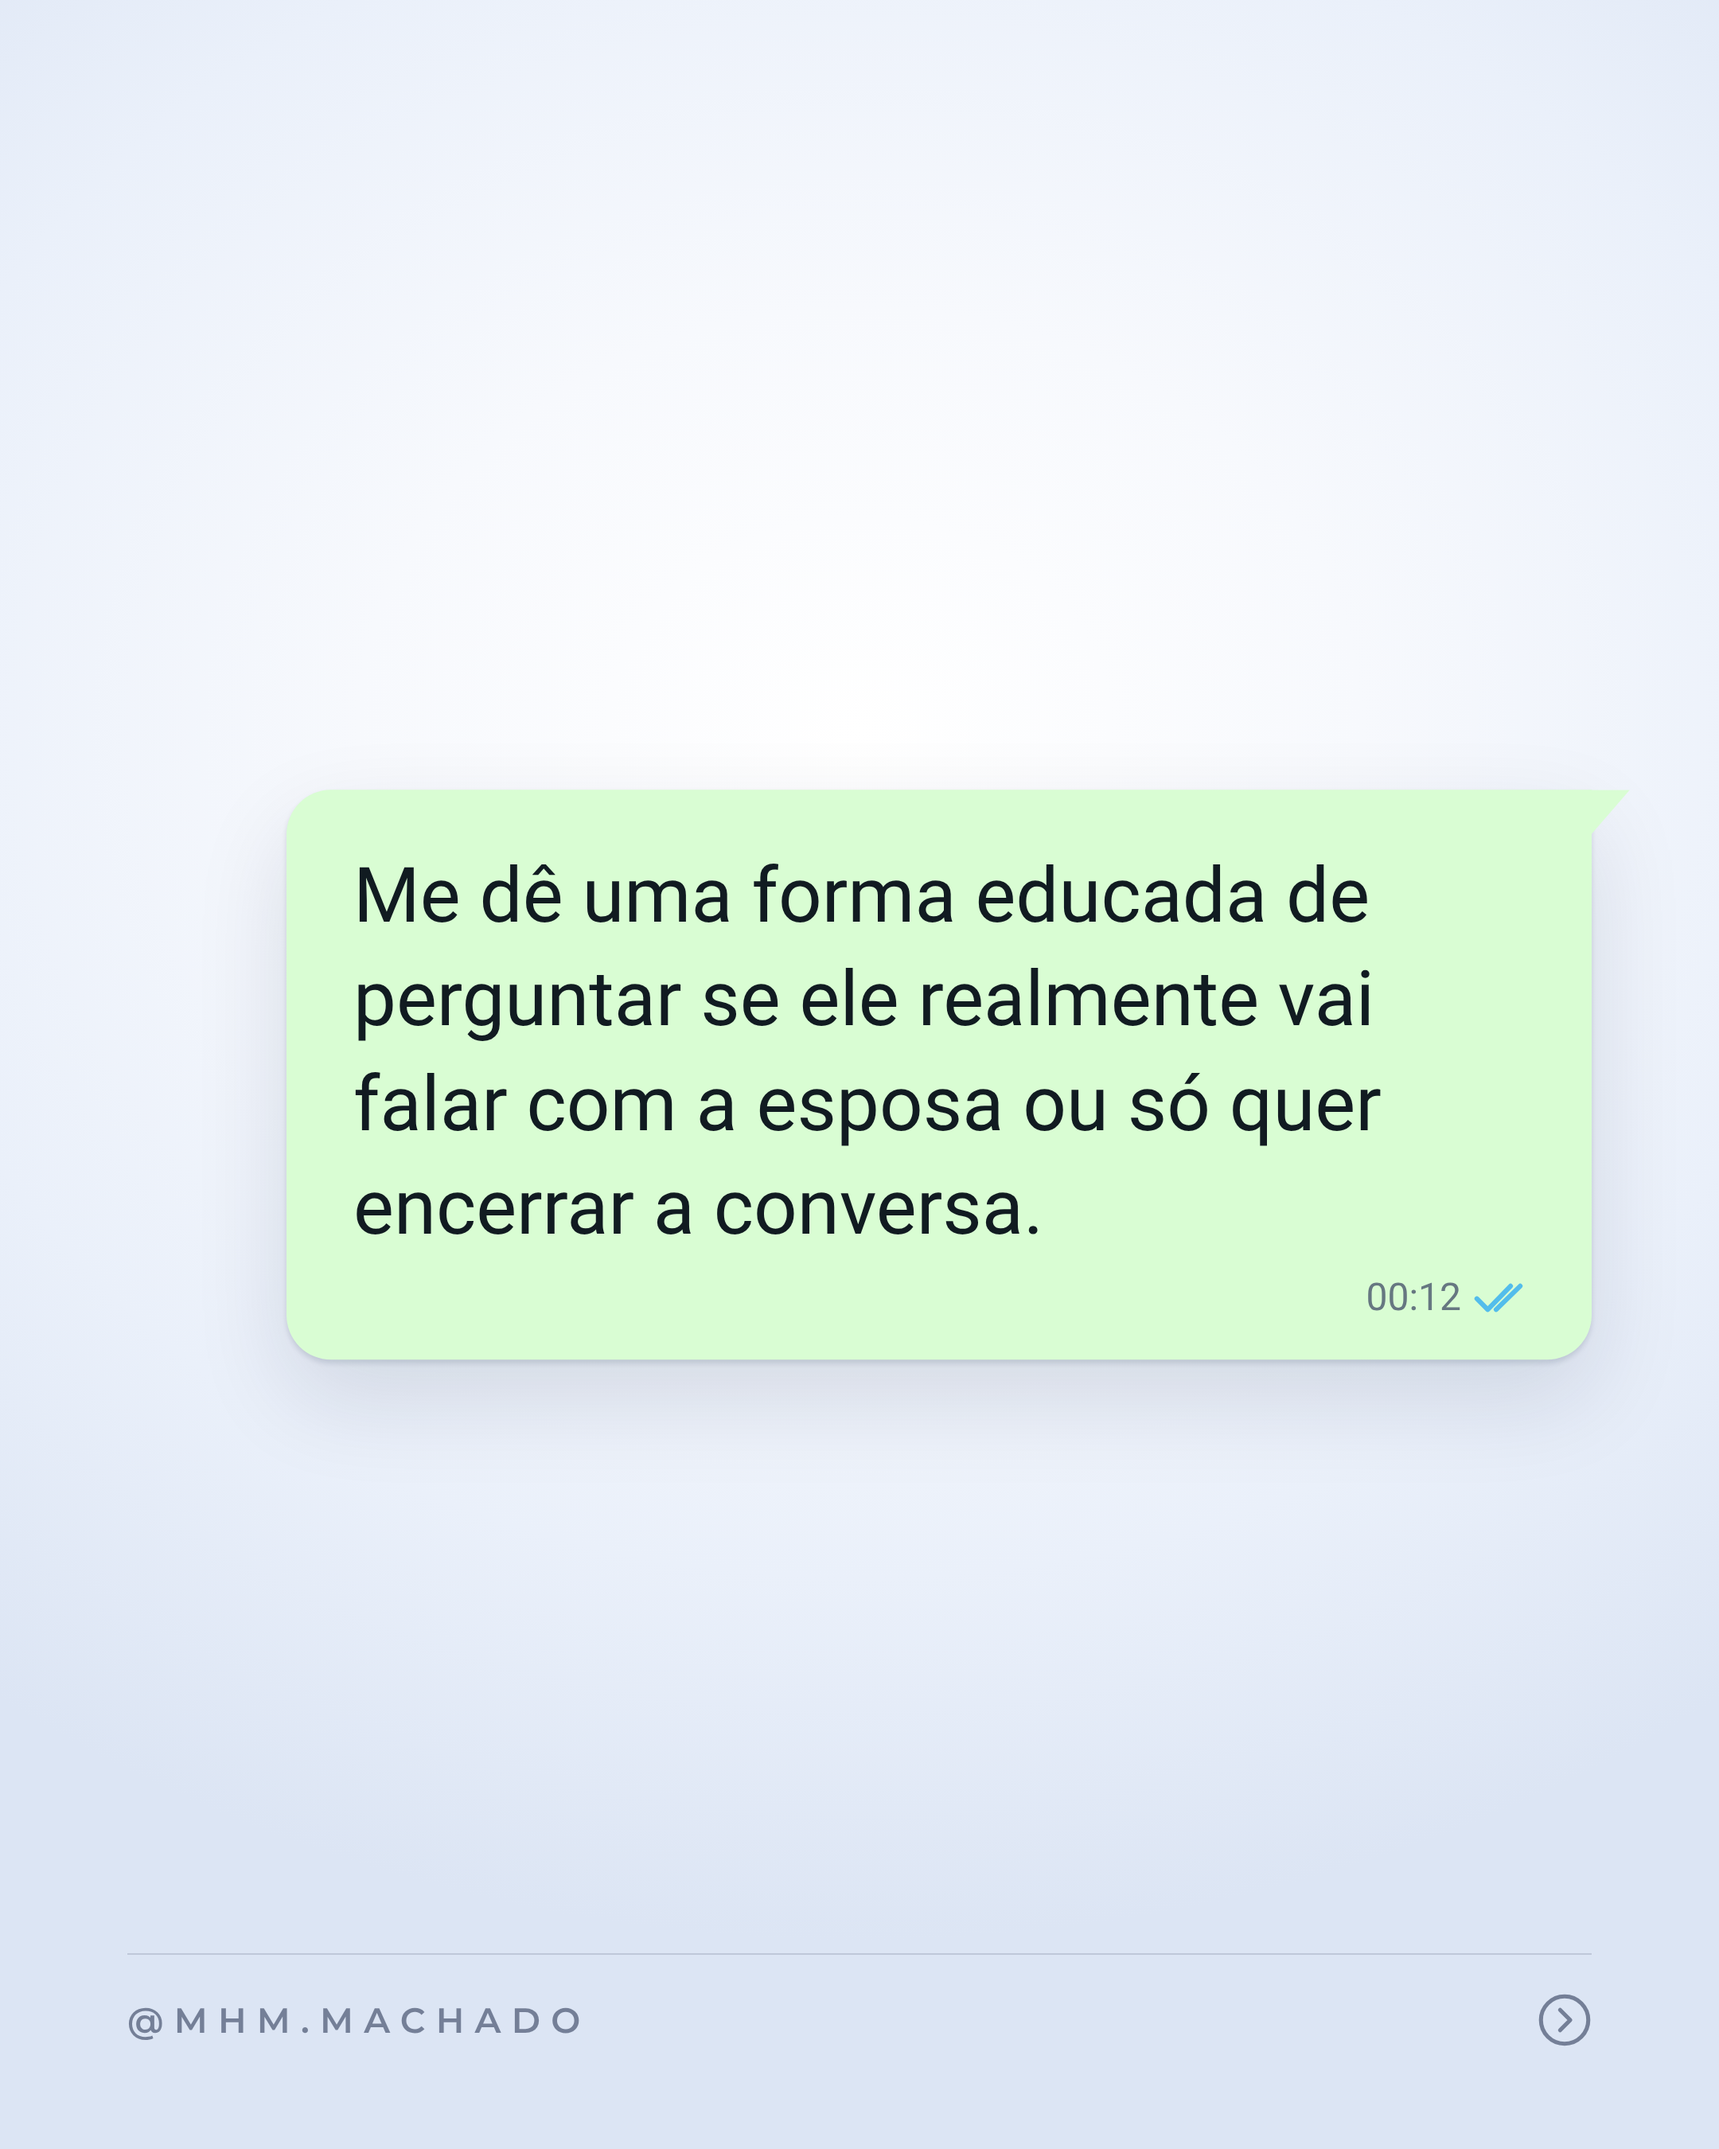
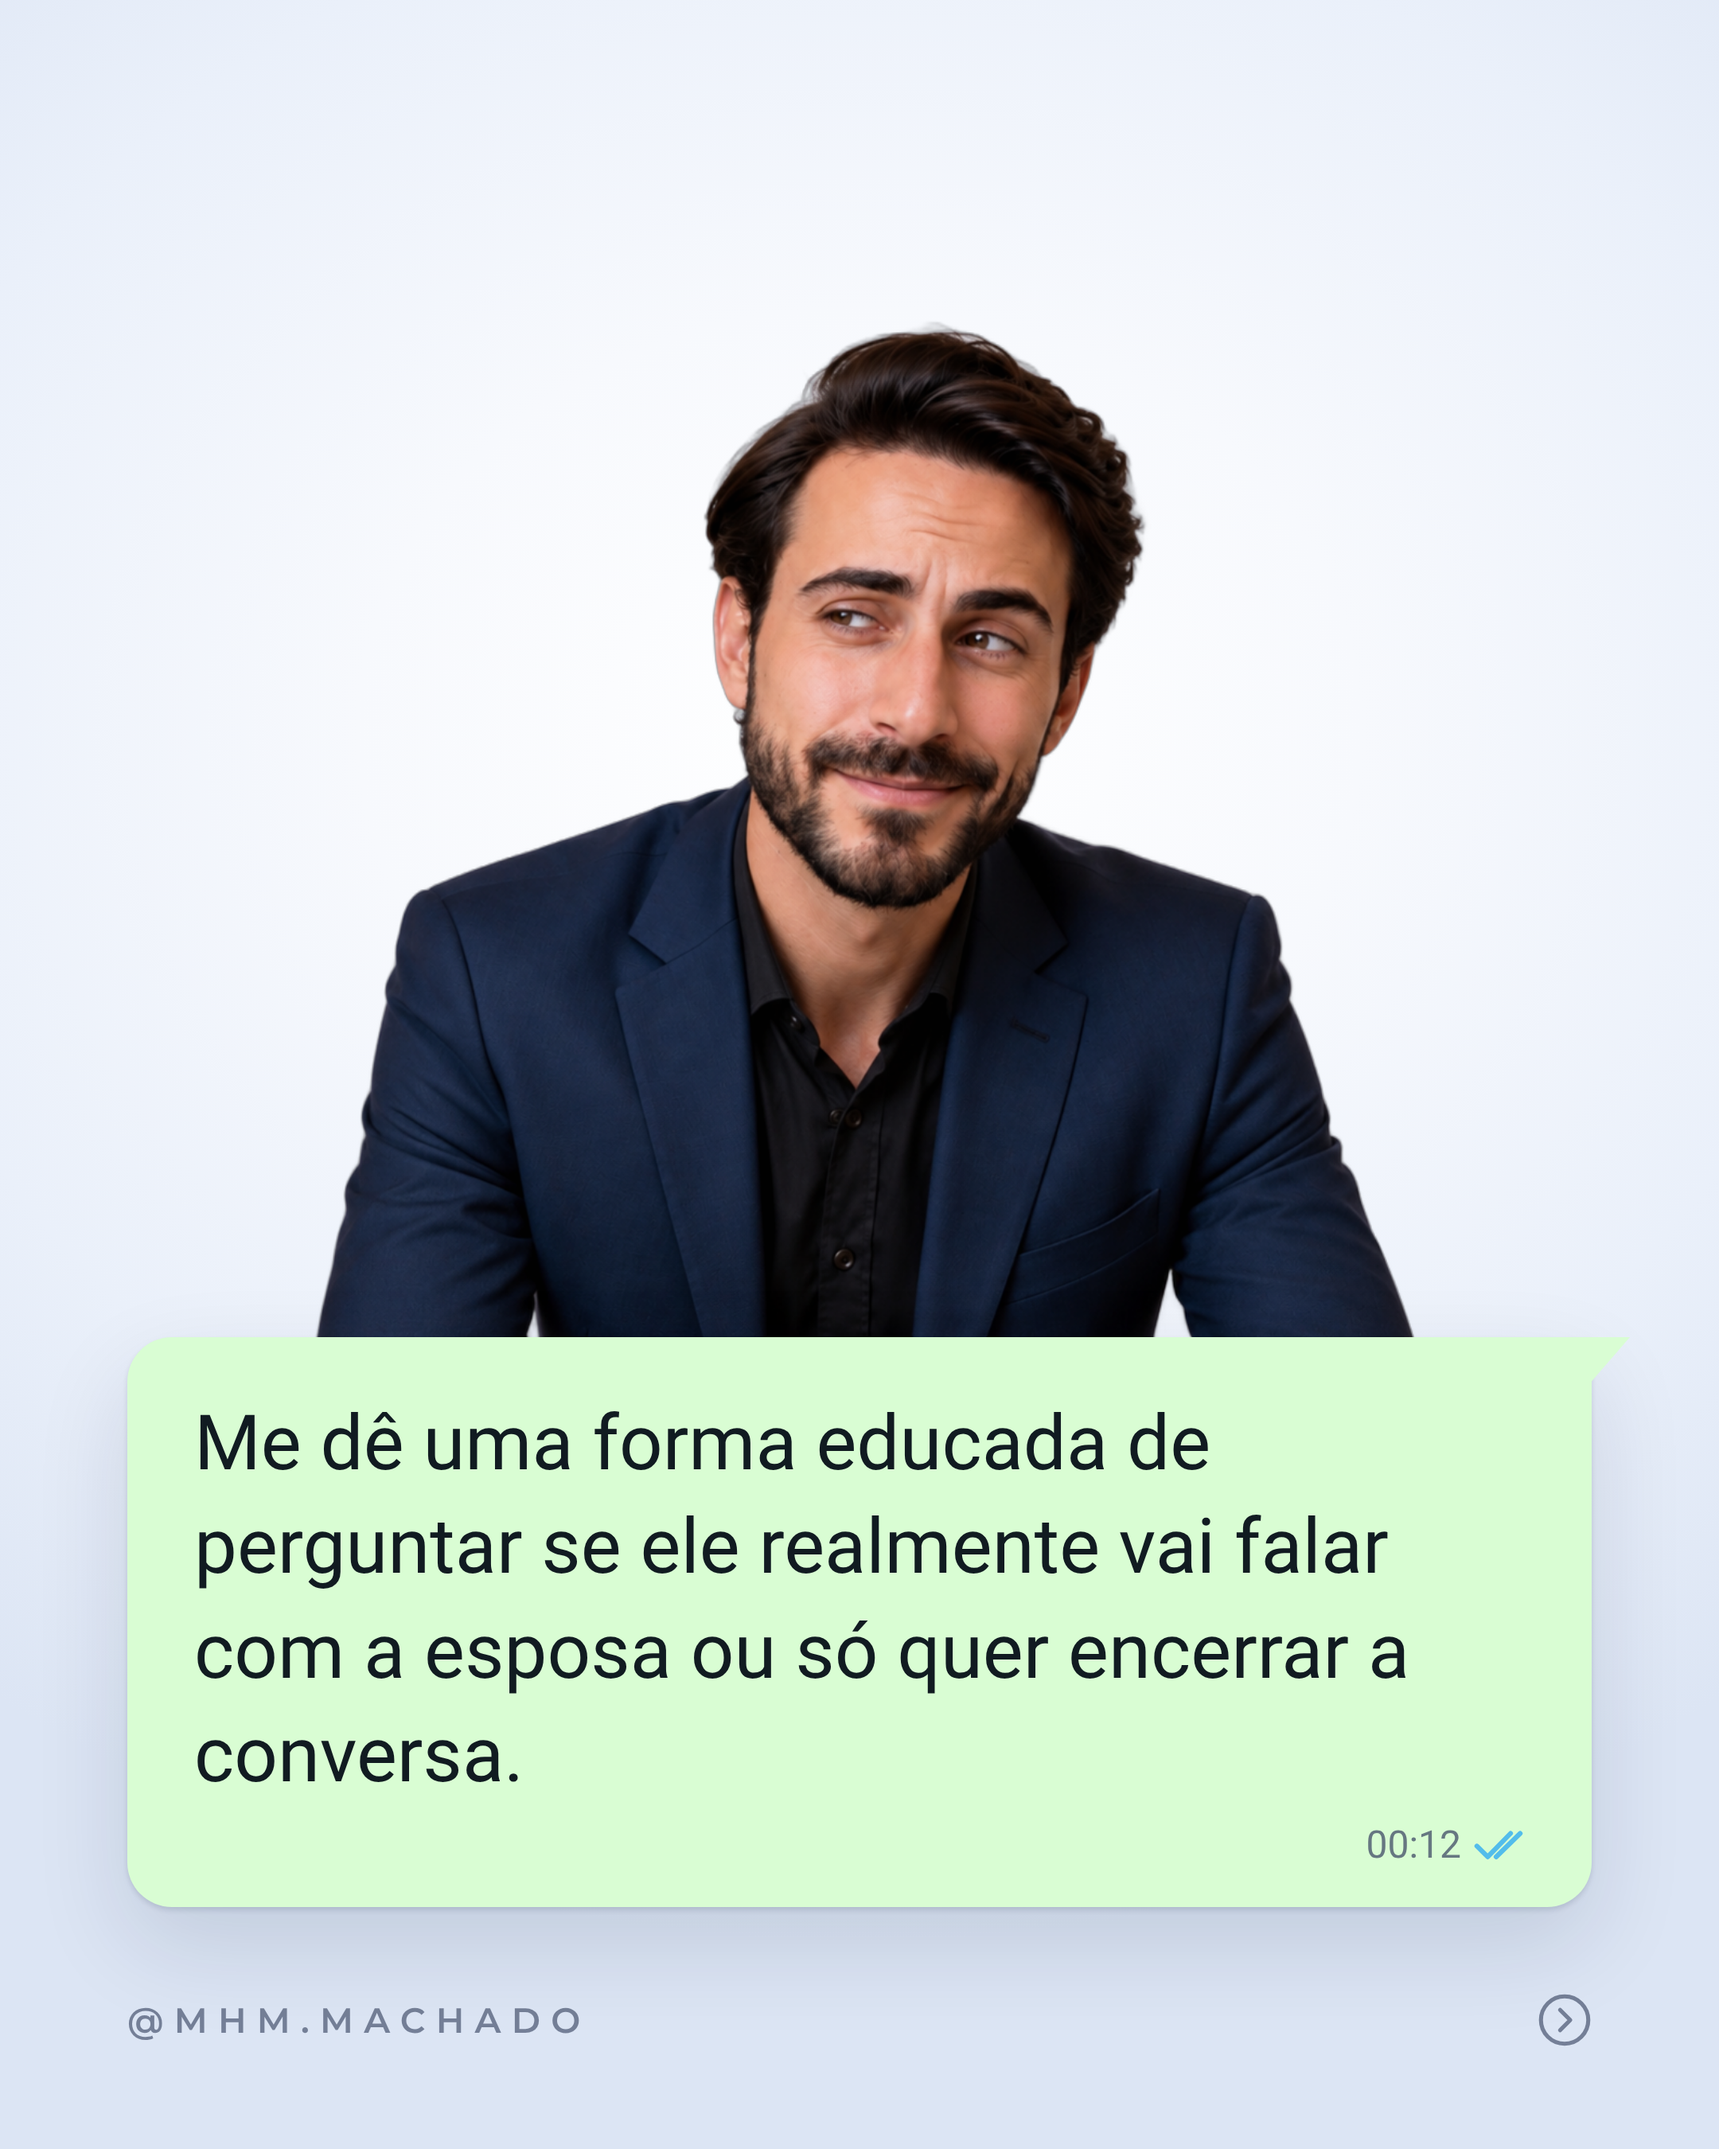
Carrossel Receita Federal: dono escorado atrás de cada balão
Fotos novas feitas pelo dono no ChatGPT (fundo removido, salvas no acervo realista); lâmina da 7ª vez usa 'pensativo' até chegar a foto 'cansado'.

Claude-Session: https://claude.ai/code/session_01Np5ufUPjCUiaopUW7Sbfpp

diff --git a/docs/posicionamento/carrosseis/2026-10-15-receita-federal-chatgpt/laminas.html b/docs/posicionamento/carrosseis/2026-10-15-receita-federal-chatgpt/laminas.html
@@ -19,6 +19,11 @@
 .bal:after{content:"";position:absolute;top:0;right:-24px;width:26px;height:30px;background:#D9FDD3;clip-path:polygon(0 0,100% 0,0 100%)}
 .meta{display:flex;justify-content:flex-end;align-items:center;gap:8px;margin-top:8px;font-size:24px;color:#667781}
 .ck{width:34px;height:21px}
+</style><style>
+.esc .chat{top:840px;transform:none;z-index:3;justify-content:center}
+.esc .bal{max-width:920px}
+.esc .pose{position:absolute;left:50%;transform:translateX(-50%);z-index:1}
+.esc .rod{border-top:none}
 </style></head><body>
 <section class="lamina">
 <div style="position:absolute;left:50%;top:700px;transform:translateX(-50%);width:1000px;height:1000px;border-radius:50%;background:radial-gradient(circle,rgba(31,95,214,.20),transparent 65%)"></div>
@@ -30,11 +35,11 @@
 </div>
 <img src="img/desespero.png" style="position:absolute;left:50%;bottom:0;transform:translateX(-50%);height:860px;z-index:2;filter:drop-shadow(0 30px 50px rgba(11,26,58,.25))">
 </section>
-<section class="lamina"><div class="chat"><div class="bal">Como responder um cliente que perguntou algo que já estava escrito no anúncio sem xingá-lo?<div class="meta">23:47<svg class="ck" viewBox="0 0 18 11"><path d="M1 5.6 4.6 9.2 12.2 1.4M7.4 9.2 15.4 1.4" fill="none" stroke="#53BDEB" stroke-width="1.6" stroke-linecap="round" stroke-linejoin="round"/></svg></div></div></div><div class="rod"><span>@MHM.MACHADO</span><svg viewBox="0 0 24 24"><circle cx="12" cy="12" r="10.5"/><path d="M10 7.5 14.5 12 10 16.5"/></svg></div></section>
-<section class="lamina"><div class="chat"><div class="bal">Me dê uma forma educada de perguntar se ele realmente vai falar com a esposa ou só quer encerrar a conversa.<div class="meta">00:12<svg class="ck" viewBox="0 0 18 11"><path d="M1 5.6 4.6 9.2 12.2 1.4M7.4 9.2 15.4 1.4" fill="none" stroke="#53BDEB" stroke-width="1.6" stroke-linecap="round" stroke-linejoin="round"/></svg></div></div></div><div class="rod"><span>@MHM.MACHADO</span><svg viewBox="0 0 24 24"><circle cx="12" cy="12" r="10.5"/><path d="M10 7.5 14.5 12 10 16.5"/></svg></div></section>
-<section class="lamina"><div class="chat"><div class="bal">Como cobrar documento pela 7ª vez sem parecer que estou implorando?<div class="meta">07:03<svg class="ck" viewBox="0 0 18 11"><path d="M1 5.6 4.6 9.2 12.2 1.4M7.4 9.2 15.4 1.4" fill="none" stroke="#53BDEB" stroke-width="1.6" stroke-linecap="round" stroke-linejoin="round"/></svg></div></div></div><div class="rod"><span>@MHM.MACHADO</span><svg viewBox="0 0 24 24"><circle cx="12" cy="12" r="10.5"/><path d="M10 7.5 14.5 12 10 16.5"/></svg></div></section>
-<section class="lamina"><div class="chat"><div class="bal">Como explicar que simulação <b style='font-weight:500'>NÃO</b> é aprovação sem perder a paciência?<div class="meta">13:58<svg class="ck" viewBox="0 0 18 11"><path d="M1 5.6 4.6 9.2 12.2 1.4M7.4 9.2 15.4 1.4" fill="none" stroke="#53BDEB" stroke-width="1.6" stroke-linecap="round" stroke-linejoin="round"/></svg></div></div></div><div class="rod"><span>@MHM.MACHADO</span><svg viewBox="0 0 24 24"><circle cx="12" cy="12" r="10.5"/><path d="M10 7.5 14.5 12 10 16.5"/></svg></div></section>
-<section class="lamina"><div class="chat"><div class="bal">Escreva uma mensagem educada para o cliente que disse ‘vou pensar’ há 23 dias.<div class="meta">18:21<svg class="ck" viewBox="0 0 18 11"><path d="M1 5.6 4.6 9.2 12.2 1.4M7.4 9.2 15.4 1.4" fill="none" stroke="#53BDEB" stroke-width="1.6" stroke-linecap="round" stroke-linejoin="round"/></svg></div></div></div><div class="rod"><span>@MHM.MACHADO</span><svg viewBox="0 0 24 24"><circle cx="12" cy="12" r="10.5"/><path d="M10 7.5 14.5 12 10 16.5"/></svg></div></section>
-<section class="lamina"><div class="chat"><div class="bal">Me ajuda a responder ‘vou esperar os juros baixarem’ sem mandar um áudio de 8 minutos?<div class="meta">21:40<svg class="ck" viewBox="0 0 18 11"><path d="M1 5.6 4.6 9.2 12.2 1.4M7.4 9.2 15.4 1.4" fill="none" stroke="#53BDEB" stroke-width="1.6" stroke-linecap="round" stroke-linejoin="round"/></svg></div></div></div><div class="rod"><span>@MHM.MACHADO</span><svg viewBox="0 0 24 24"><circle cx="12" cy="12" r="10.5"/><path d="M10 7.5 14.5 12 10 16.5"/></svg></div></section>
-<section class="lamina"><div class="chat"><div class="bal">Qual o tamanho do “kkk” que eu devo enviar sem parecer antiprofissional?<div class="meta">22:15<svg class="ck" viewBox="0 0 18 11"><path d="M1 5.6 4.6 9.2 12.2 1.4M7.4 9.2 15.4 1.4" fill="none" stroke="#53BDEB" stroke-width="1.6" stroke-linecap="round" stroke-linejoin="round"/></svg></div></div></div></section>
+<section class="lamina esc"><img class="pose" src="img/esc-irritado.png" style="top:144px;height:836px"><div class="chat"><div class="bal">Como responder um cliente que perguntou algo que já estava escrito no anúncio sem xingá-lo?<div class="meta">23:47<svg class="ck" viewBox="0 0 18 11"><path d="M1 5.6 4.6 9.2 12.2 1.4M7.4 9.2 15.4 1.4" fill="none" stroke="#53BDEB" stroke-width="1.6" stroke-linecap="round" stroke-linejoin="round"/></svg></div></div></div><div class="rod"><span>@MHM.MACHADO</span><svg viewBox="0 0 24 24"><circle cx="12" cy="12" r="10.5"/><path d="M10 7.5 14.5 12 10 16.5"/></svg></div></section>
+<section class="lamina esc"><img class="pose" src="img/esc-desconfiado.png" style="top:144px;height:836px"><div class="chat"><div class="bal">Me dê uma forma educada de perguntar se ele realmente vai falar com a esposa ou só quer encerrar a conversa.<div class="meta">00:12<svg class="ck" viewBox="0 0 18 11"><path d="M1 5.6 4.6 9.2 12.2 1.4M7.4 9.2 15.4 1.4" fill="none" stroke="#53BDEB" stroke-width="1.6" stroke-linecap="round" stroke-linejoin="round"/></svg></div></div></div><div class="rod"><span>@MHM.MACHADO</span><svg viewBox="0 0 24 24"><circle cx="12" cy="12" r="10.5"/><path d="M10 7.5 14.5 12 10 16.5"/></svg></div></section>
+<section class="lamina esc"><img class="pose" src="img/esc-pensativo.png" style="top:100px;height:880px"><div class="chat"><div class="bal">Como cobrar documento pela 7ª vez sem parecer que estou implorando?<div class="meta">07:03<svg class="ck" viewBox="0 0 18 11"><path d="M1 5.6 4.6 9.2 12.2 1.4M7.4 9.2 15.4 1.4" fill="none" stroke="#53BDEB" stroke-width="1.6" stroke-linecap="round" stroke-linejoin="round"/></svg></div></div></div><div class="rod"><span>@MHM.MACHADO</span><svg viewBox="0 0 24 24"><circle cx="12" cy="12" r="10.5"/><path d="M10 7.5 14.5 12 10 16.5"/></svg></div></section>
+<section class="lamina esc"><img class="pose" src="img/esc-calma.png" style="top:161px;height:819px"><div class="chat"><div class="bal">Como explicar que simulação <b style='font-weight:500'>NÃO</b> é aprovação sem perder a paciência?<div class="meta">13:58<svg class="ck" viewBox="0 0 18 11"><path d="M1 5.6 4.6 9.2 12.2 1.4M7.4 9.2 15.4 1.4" fill="none" stroke="#53BDEB" stroke-width="1.6" stroke-linecap="round" stroke-linejoin="round"/></svg></div></div></div><div class="rod"><span>@MHM.MACHADO</span><svg viewBox="0 0 24 24"><circle cx="12" cy="12" r="10.5"/><path d="M10 7.5 14.5 12 10 16.5"/></svg></div></section>
+<section class="lamina esc"><img class="pose" src="img/esc-entediado.png" style="top:120px;height:860px"><div class="chat"><div class="bal">Escreva uma mensagem educada para o cliente que disse ‘vou pensar’ há 23 dias.<div class="meta">18:21<svg class="ck" viewBox="0 0 18 11"><path d="M1 5.6 4.6 9.2 12.2 1.4M7.4 9.2 15.4 1.4" fill="none" stroke="#53BDEB" stroke-width="1.6" stroke-linecap="round" stroke-linejoin="round"/></svg></div></div></div><div class="rod"><span>@MHM.MACHADO</span><svg viewBox="0 0 24 24"><circle cx="12" cy="12" r="10.5"/><path d="M10 7.5 14.5 12 10 16.5"/></svg></div></section>
+<section class="lamina esc"><img class="pose" src="img/esc-la-vem.png" style="top:137px;height:843px"><div class="chat"><div class="bal">Me ajuda a responder ‘vou esperar os juros baixarem’ sem mandar um áudio de 8 minutos?<div class="meta">21:40<svg class="ck" viewBox="0 0 18 11"><path d="M1 5.6 4.6 9.2 12.2 1.4M7.4 9.2 15.4 1.4" fill="none" stroke="#53BDEB" stroke-width="1.6" stroke-linecap="round" stroke-linejoin="round"/></svg></div></div></div><div class="rod"><span>@MHM.MACHADO</span><svg viewBox="0 0 24 24"><circle cx="12" cy="12" r="10.5"/><path d="M10 7.5 14.5 12 10 16.5"/></svg></div></section>
+<section class="lamina esc"><img class="pose" src="img/esc-desespero.png" style="top:155px;height:825px"><div class="chat"><div class="bal">Qual o tamanho do “kkk” que eu devo enviar sem parecer antiprofissional?<div class="meta">22:15<svg class="ck" viewBox="0 0 18 11"><path d="M1 5.6 4.6 9.2 12.2 1.4M7.4 9.2 15.4 1.4" fill="none" stroke="#53BDEB" stroke-width="1.6" stroke-linecap="round" stroke-linejoin="round"/></svg></div></div></div></section>
 </body></html>

diff --git a/docs/posicionamento/ESTILO-CARROSSEL.md b/docs/posicionamento/ESTILO-CARROSSEL.md
@@ -111,4 +111,4 @@ Quando o dono mandar fotos de um imóvel, usar sempre este modelo. Exemplo: `car
 Depois de toda legenda, perguntar **"Vai postar agora?"**. Se a resposta for não, colocar o post em `docs/posicionamento/FILA-POSTAGEM.md`. Quando o dono pedir "o que tenho para postar?", listar por carrossel claro, carrossel azul e imóvel, e reenviar o que ele escolher.
 
 ## Acervo de fotos do dono (já recortadas, prontas para usar)
-`assets/boneco-3d/realista/`: apontando, bracos-cruzados, celular, celular-instagram (Instagram dele na tela), chave, comemorando, desespero (coçando a cabeça, sorriso nervoso; feita pelo dono no ChatGPT em 2026-10-15 com joinha + bracos-cruzados de referência, aprovada), explicando, joinha, lupa, lupa-olho, malabares-contratos, pensando, pensativo, prancha. **Usar estas fotos; não gerar de novo.** Só gerar uma pose nova se o dono pedir ou se a capa precisar de algo inédito (método aprovado acima). Logos: `assets/mcmv-logo-branco.png` e `assets/mcmv-logo-cor.png`.
+`assets/boneco-3d/realista/`: apontando, bracos-cruzados, celular, celular-instagram (Instagram dele na tela), chave, comemorando, calma (olhos fechados, gesto de ok), desconfiado (escorado, sobrancelha levantada), entediado (escorado, mão no rosto), irritado (escorado, sorriso forçado), la-vem (escorado, olhar de lado), desespero (coçando a cabeça, sorriso nervoso; feita pelo dono no ChatGPT em 2026-10-15 com joinha + bracos-cruzados de referência, aprovada), explicando, joinha, lupa, lupa-olho, malabares-contratos, pensando, pensativo, prancha. **Usar estas fotos; não gerar de novo.** Só gerar uma pose nova se o dono pedir ou se a capa precisar de algo inédito (método aprovado acima). Logos: `assets/mcmv-logo-branco.png` e `assets/mcmv-logo-cor.png`.
